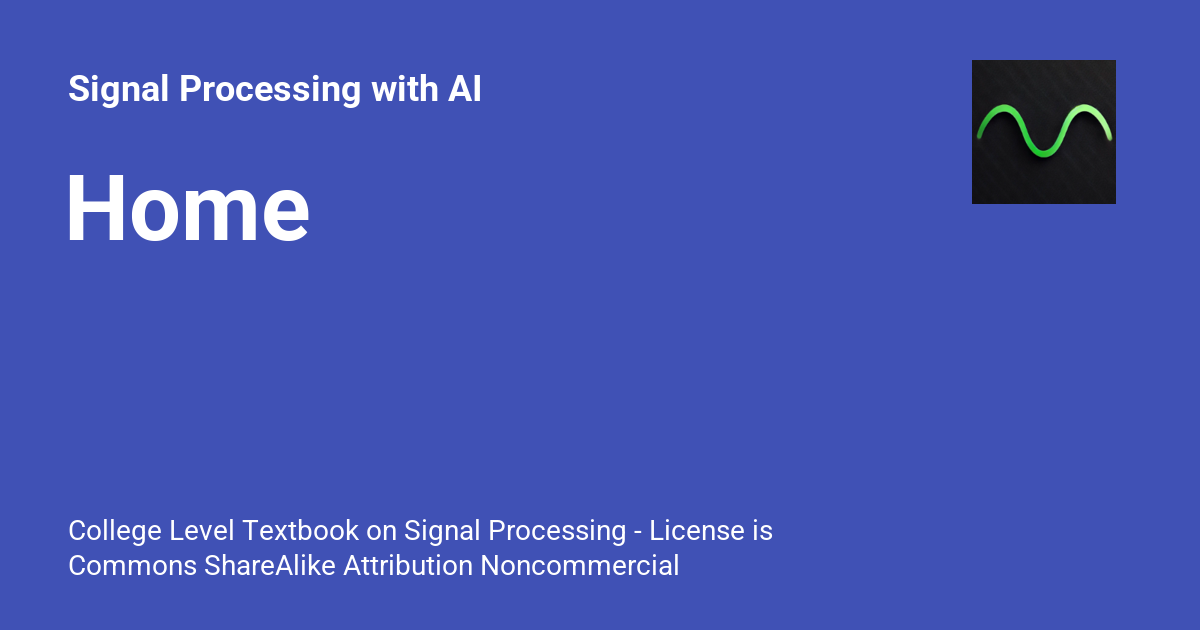
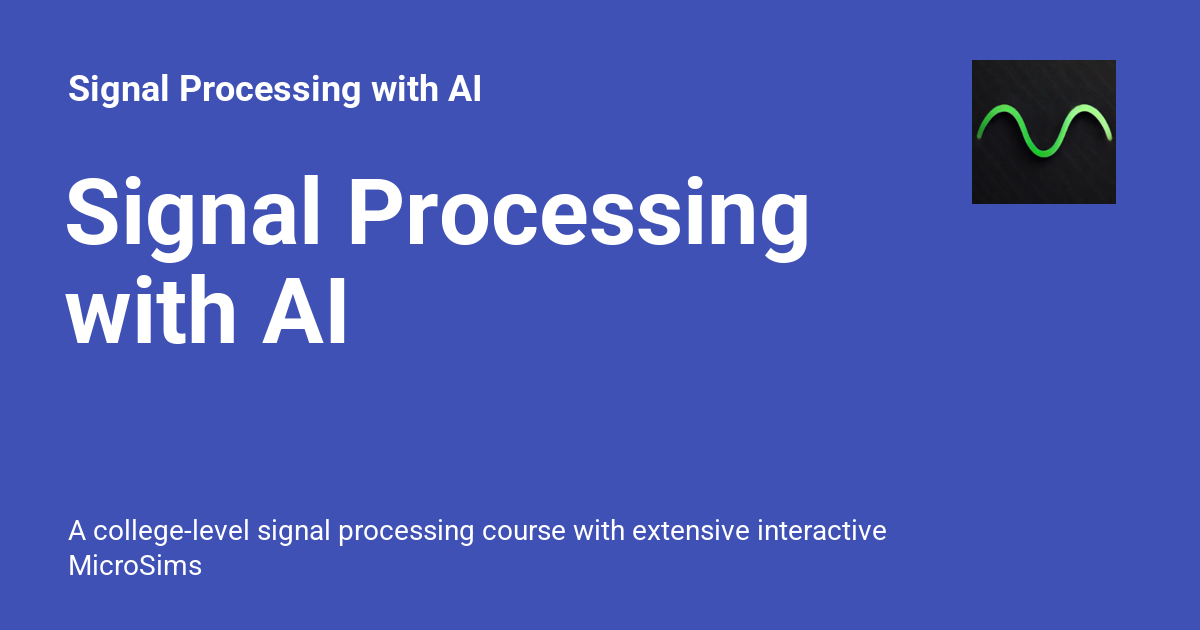
Deployed e0fdd62 with MkDocs version: 1.6.1

Changed region(s): [[0.0308, 0.2714, 0.6783, 0.5429], [0.0617, 0.8143, 0.74, 0.9349]]

diff --git a/index.html b/index.html
@@ -6,7 +6,7 @@
       <meta charset="utf-8">
       <meta name="viewport" content="width=device-width,initial-scale=1">
       
-        <meta name="description" content="College Level Textbook on Signal Processing - License is Commons ShareAlike Attribution Noncommercial">
+        <meta name="description" content="A college-level signal processing course with extensive interactive MicroSims">
       
       
         <meta name="author" content="Dan McCreary">
@@ -24,7 +24,7 @@
     
     
       
-        <title>Signal Processing with AI</title>
+        <title>Signal Processing with AI - Signal Processing with AI</title>
       
     
     
@@ -73,7 +73,7 @@
       
         <meta  property="og:title"  content="Signal Processing with AI" >
       
-        <meta  property="og:description"  content="College Level Textbook on Signal Processing - License is Commons ShareAlike Attribution Noncommercial" >
+        <meta  property="og:description"  content="A college-level signal processing course with extensive interactive MicroSims" >
       
         <meta  property="og:image"  content="https://dmccreary.github.io/signal-processing/assets/images/social/index.png" >
       
@@ -89,7 +89,7 @@
       
         <meta  name="twitter:title"  content="Signal Processing with AI" >
       
-        <meta  name="twitter:description"  content="College Level Textbook on Signal Processing - License is Commons ShareAlike Attribution Noncommercial" >
+        <meta  name="twitter:description"  content="A college-level signal processing course with extensive interactive MicroSims" >
       
         <meta  name="twitter:image"  content="https://dmccreary.github.io/signal-processing/assets/images/social/index.png" >
       
@@ -147,7 +147,7 @@
         <div class="md-header__topic" data-md-component="header-topic">
           <span class="md-ellipsis">
             
-              Home
+              Signal Processing with AI
             
           </span>
         </div>
@@ -227,6 +227,8 @@
         <div class="md-main__inner md-grid">
           
             
+              
+                
               
               <div class="md-sidebar md-sidebar--primary" data-md-component="sidebar" data-md-type="navigation" >
                 <div class="md-sidebar__scrollwrap">
@@ -1046,7 +1048,9 @@
             
             
               
-              <div class="md-sidebar md-sidebar--secondary" data-md-component="sidebar" data-md-type="toc" >
+                
+              
+              <div class="md-sidebar md-sidebar--secondary" data-md-component="sidebar" data-md-type="toc" hidden>
                 <div class="md-sidebar__scrollwrap">
                   <div class="md-sidebar__inner">
                     
@@ -1086,6 +1090,8 @@
               <article class="md-content__inner md-typeset">
                 
                   
+  
+
 
 
   
@@ -1138,6 +1144,8 @@ robust tools such as <a href="glossary/#cursor-ide">Cursor</a> and [WindSurf] to
   
 
 
+  
+
 
 
                 
@@ -1159,6 +1167,8 @@ robust tools such as <a href="glossary/#cursor-ide">Cursor</a> and [WindSurf] to
         <footer class="md-footer">
   
     
+      
+        
       
       <nav class="md-footer__inner md-grid" aria-label="Footer" >
         
